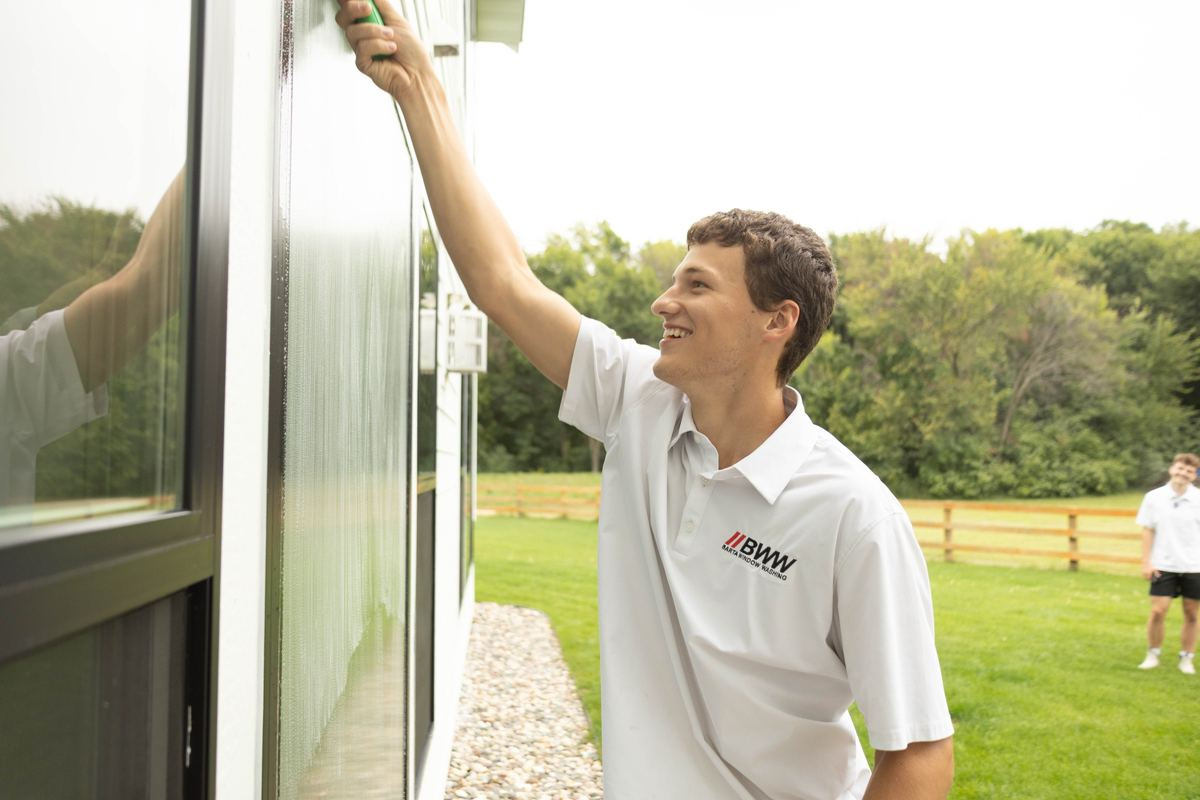
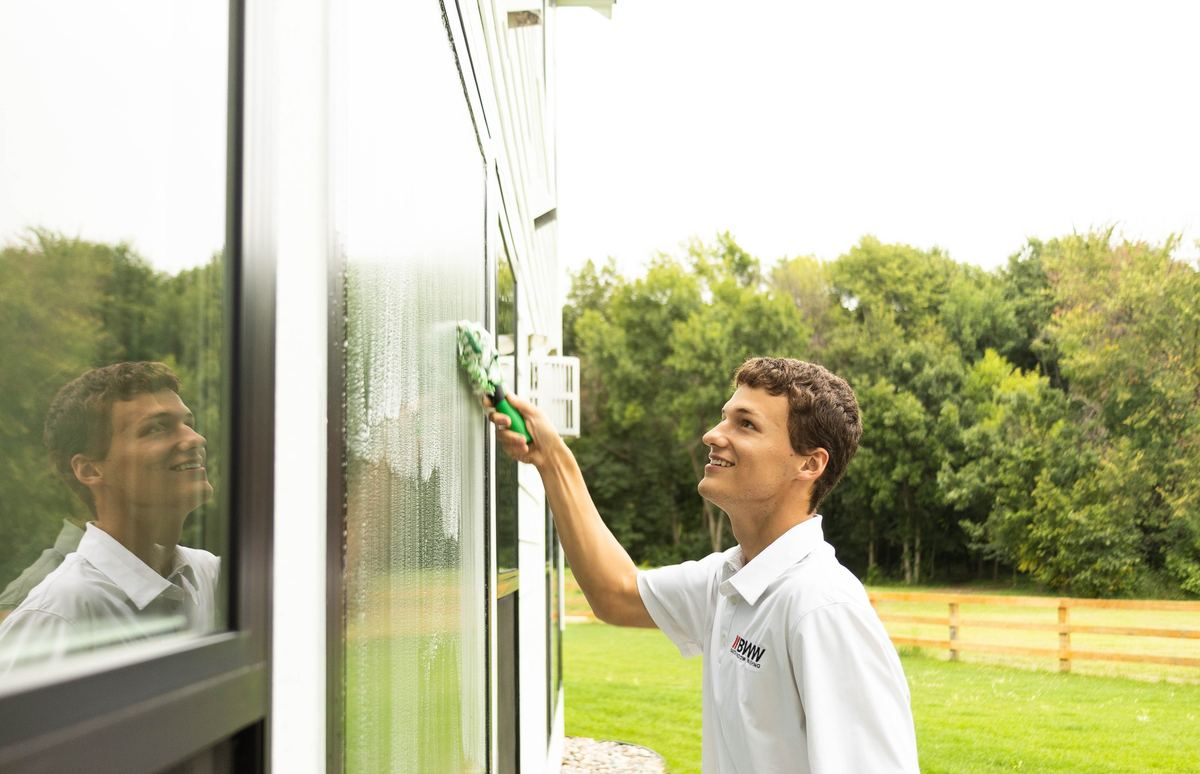
Reframe the homepage hero: subject right of the copy, squeegee in frame
The first pick cut the squeegee off at the top of the frame and put
the technician under the headline. The hero source now comes from the
reflection shot instead, cropped to the hero's 1.55:1 with an upward
bias, so the technician stands fully right of the words, the squeegee
working the glass is visible mid-frame, and his reflection fills the
left side under the scrim. All responsive tiers and the share card
regenerated from the new source.

Claude-Session: https://claude.ai/code/session_01WscfW7U3vZd4WemqUDrm97

diff --git a/services/christmas-light-installation.html b/services/christmas-light-installation.html
@@ -122,8 +122,8 @@
       <div class="xmas-countdown" data-countdown role="timer" aria-live="off">
         <div class="cd-cell"><span class="cd-num" data-cd="d">97</span><span class="cd-label">Days</span></div>
         <div class="cd-cell"><span class="cd-num" data-cd="h">09</span><span class="cd-label">Hours</span></div>
-        <div class="cd-cell"><span class="cd-num" data-cd="m">19</span><span class="cd-label">Minutes</span></div>
-        <div class="cd-cell"><span class="cd-num" data-cd="s">33</span><span class="cd-label">Seconds</span></div>
+        <div class="cd-cell"><span class="cd-num" data-cd="m">12</span><span class="cd-label">Minutes</span></div>
+        <div class="cd-cell"><span class="cd-num" data-cd="s">16</span><span class="cd-label">Seconds</span></div>
       </div>
       <a class="btn btn-lg" href="../get-quote.html?svc=christmas-light-installation">Get Your Free Quote <svg viewBox="0 0 24 24" fill="none" stroke="currentColor" stroke-width="1.9" stroke-linecap="round" stroke-linejoin="round" aria-hidden="true"><path d="M5 12h14M13 6l6 6-6 6"/></svg></a>
       <p class="xmas-promo-limit"><svg viewBox="0 0 24 24" fill="none" stroke="currentColor" stroke-width="2" stroke-linecap="round" stroke-linejoin="round" aria-hidden="true"><path d="m21.73 18-8-14a2 2 0 0 0-3.48 0l-8 14A2 2 0 0 0 4 21h16a2 2 0 0 0 1.73-3Z"/><path d="M12 9v4M12 17h.01"/></svg> We Are Only Taking On 50 New Clients This Year</p>

diff --git a/index.html b/index.html
@@ -98,7 +98,7 @@
 <main id="main">
   <!-- HERO -->
   <section class="hero hero-photo-full">
-    <picture><source type="image/webp" srcset="assets/img/hero-home-window-clean-640w.webp 640w, assets/img/hero-home-window-clean-1200w.webp 1200w, assets/img/hero-home-window-clean-1920w.webp 1920w" sizes="100vw"><img class="hero-bg-img" src="assets/img/hero-home-window-clean-1920w.jpg" srcset="assets/img/hero-home-window-clean-640w.jpg 640w, assets/img/hero-home-window-clean-1200w.jpg 1200w, assets/img/hero-home-window-clean-1920w.jpg 1920w" sizes="100vw" alt="A Barta Window Washing technician squeegeeing a home's exterior windows" width="1920" height="1280" fetchpriority="high" decoding="async" ></picture>
+    <picture><source type="image/webp" srcset="assets/img/hero-home-window-clean-640w.webp 640w, assets/img/hero-home-window-clean-1200w.webp 1200w, assets/img/hero-home-window-clean-1920w.webp 1920w" sizes="100vw"><img class="hero-bg-img" src="assets/img/hero-home-window-clean-1920w.jpg" srcset="assets/img/hero-home-window-clean-640w.jpg 640w, assets/img/hero-home-window-clean-1200w.jpg 1200w, assets/img/hero-home-window-clean-1920w.jpg 1920w" sizes="100vw" alt="A Barta Window Washing technician squeegeeing a home's exterior windows" width="1920" height="1239" fetchpriority="high" decoding="async" ></picture>
     <div class="hero-overlay"></div>
     <div class="container">
       <div class="hero-content reveal in">
